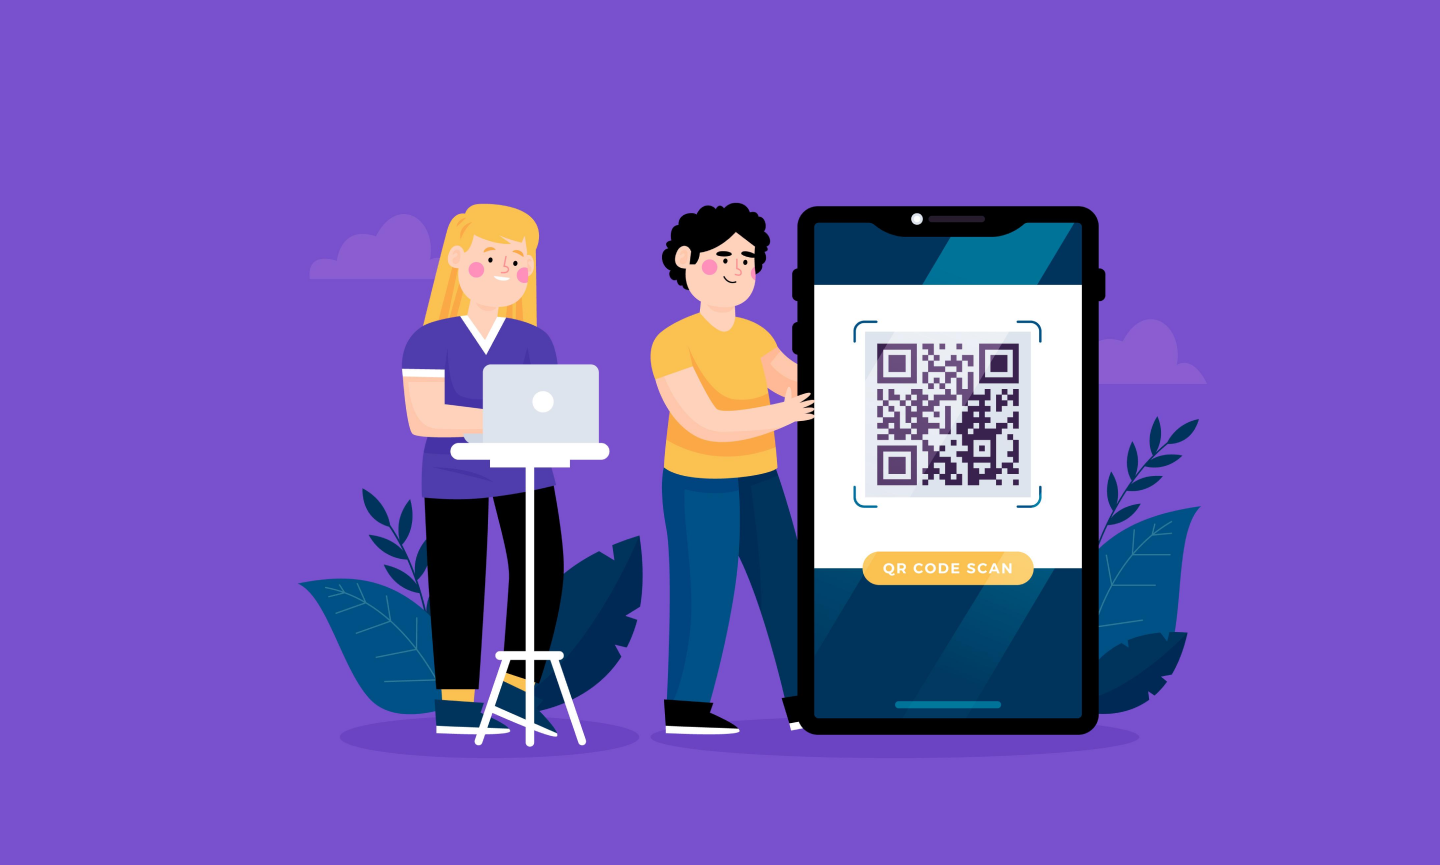
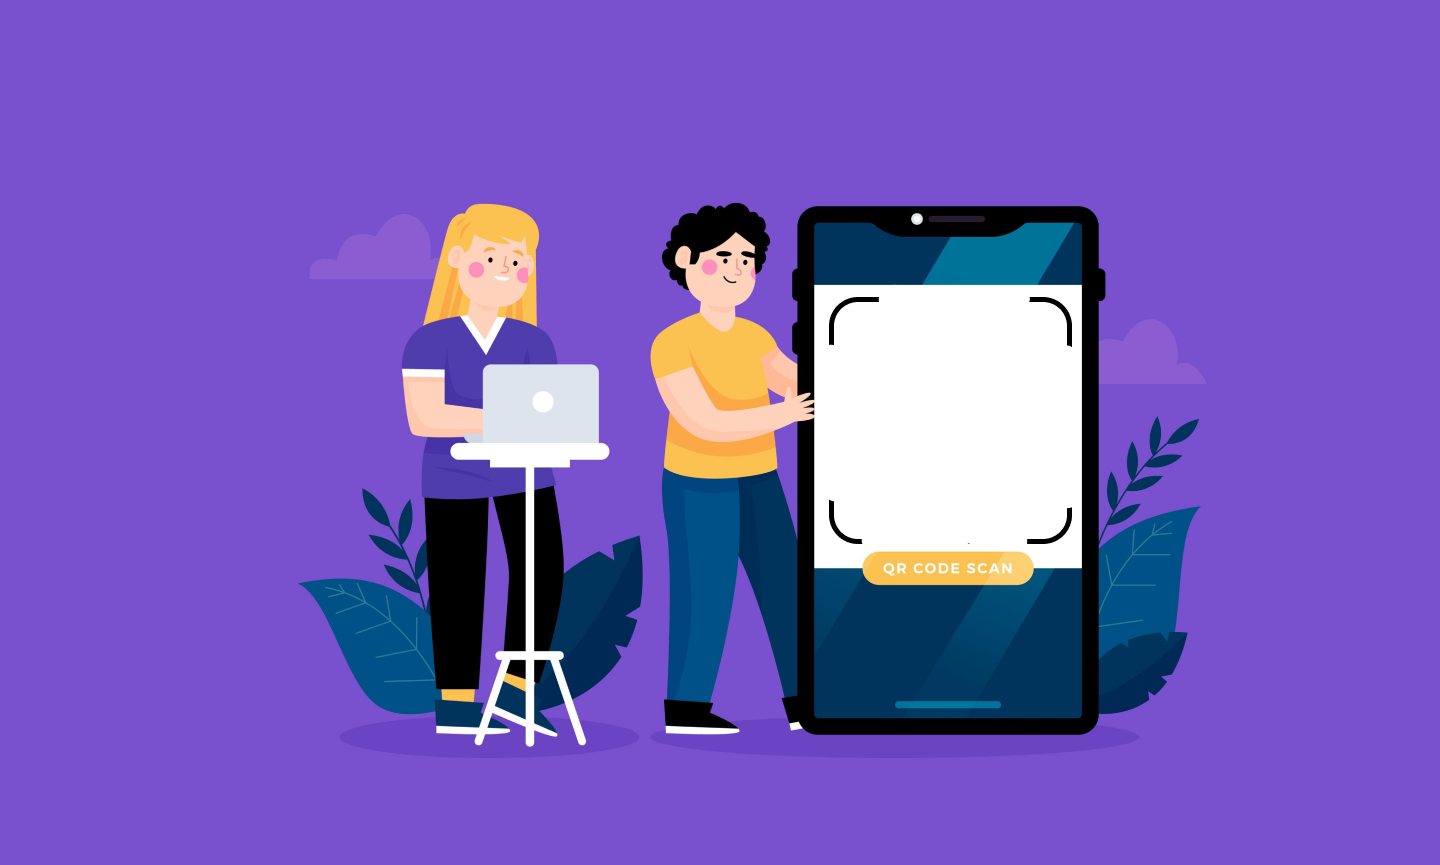
:zap: Changes in Ui

Changed region(s): [[0.5625, 0.3434, 0.75, 0.5931], [0.7188, 0.5931, 0.75, 0.6243], [0.5625, 0.5931, 0.5938, 0.6243]]

diff --git a/src/components/QrResult.tsx b/src/components/QrResult.tsx
@@ -6,12 +6,12 @@ export const QrResult = ({ url }: QrResultProps) => {
   return (
     <>
       {url ? (
-        <div className="flex justify-center items-center py-10 w-full">
-          <div className="font-semibold capitalize">
-            <h1 className="font-medium text-3xl">scan this</h1>
-            <p className="text-5xl">qr code </p>
+        <div className=" py-10 w-full">
+          <div className="text-white font-semibold capitalize pl-3 border-l-8  border-black absolute top-[320px] left-[-300px]">
+            <h1 className="font-medium text-3xl ">scan this</h1>
+            <p className="text-7xl">qr code </p>
           </div>
-          <div className="flex justify-center items-center  bg-white border border-gray-200 rounded-lg shadow-xl">
+          <div className="absolute right-[32px] top-[321px]  bg-white border border-gray-200 rounded-lg shadow-xl">
             <img
               src={`https://api.qrserver.com/v1/create-qr-code/?size=150x150&data=${url}`}
               className="h-52 w-52"

diff --git a/src/pages/Home.tsx b/src/pages/Home.tsx
@@ -3,7 +3,7 @@ import { QrInputBar } from "../components/QrInputBar";
 import { QrResult } from "../components/QrResult";
 
 export default function Home() {
-  const [url, setUrl] = useState<string>("");
+  const [url, setUrl] = useState<string>("https://github.com/rimanshupatel");
   const [urlVal, setUrlVal] = useState<string>("");
   const handleSubmit = () => {
     setUrlVal(url);

diff --git a/src/App.tsx b/src/App.tsx
@@ -2,7 +2,7 @@ import Home from "./pages/Home";
 function App() {
   return (
     <>
-      <div className="bg-Main flex flex-col justify-center items-center w-[741.99px] m-auto">
+      <div className="relative  flex flex-col justify-center items-center w-[741.99px] m-auto">
         <Home />
       </div>
     </>
